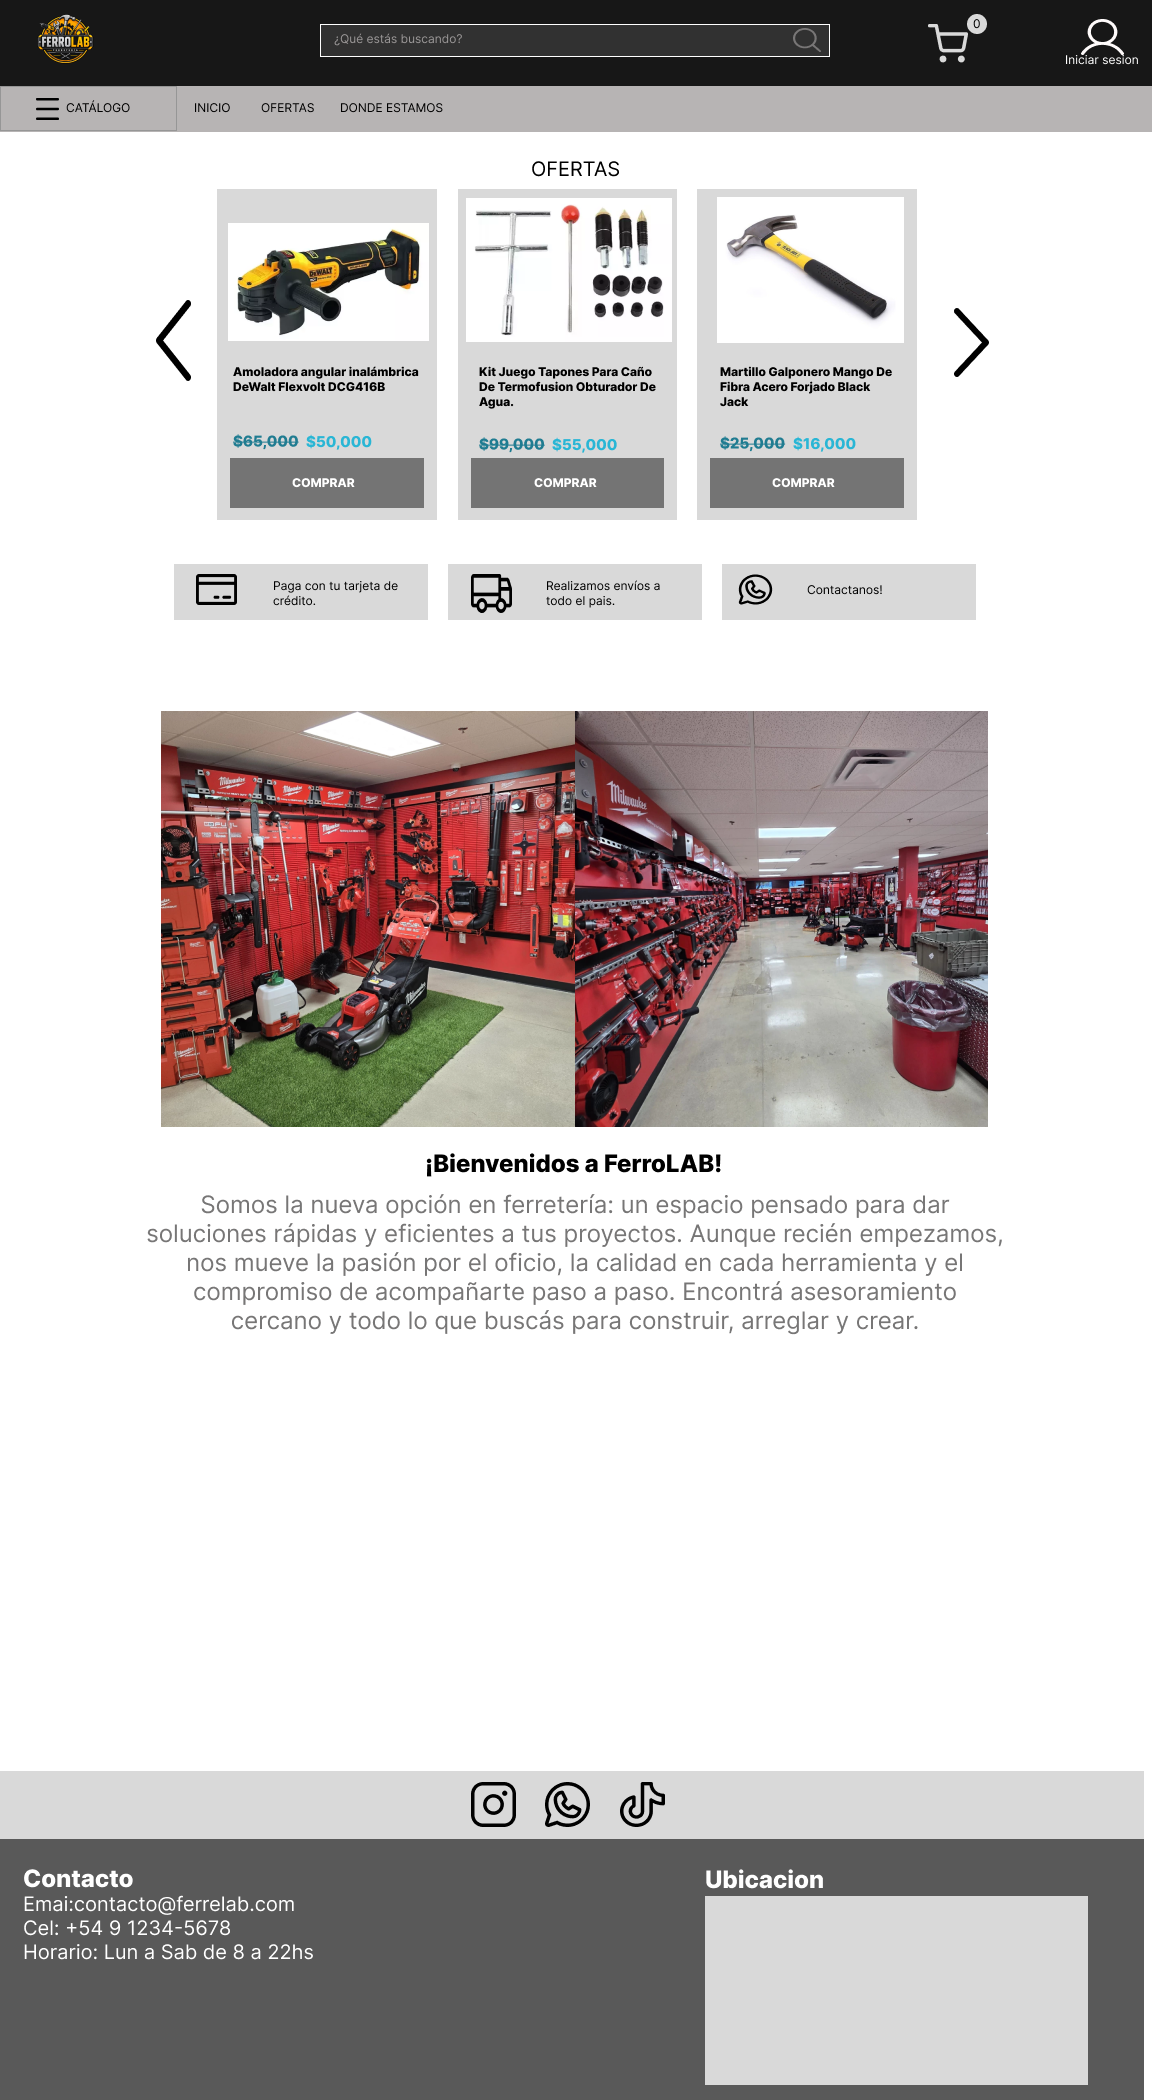
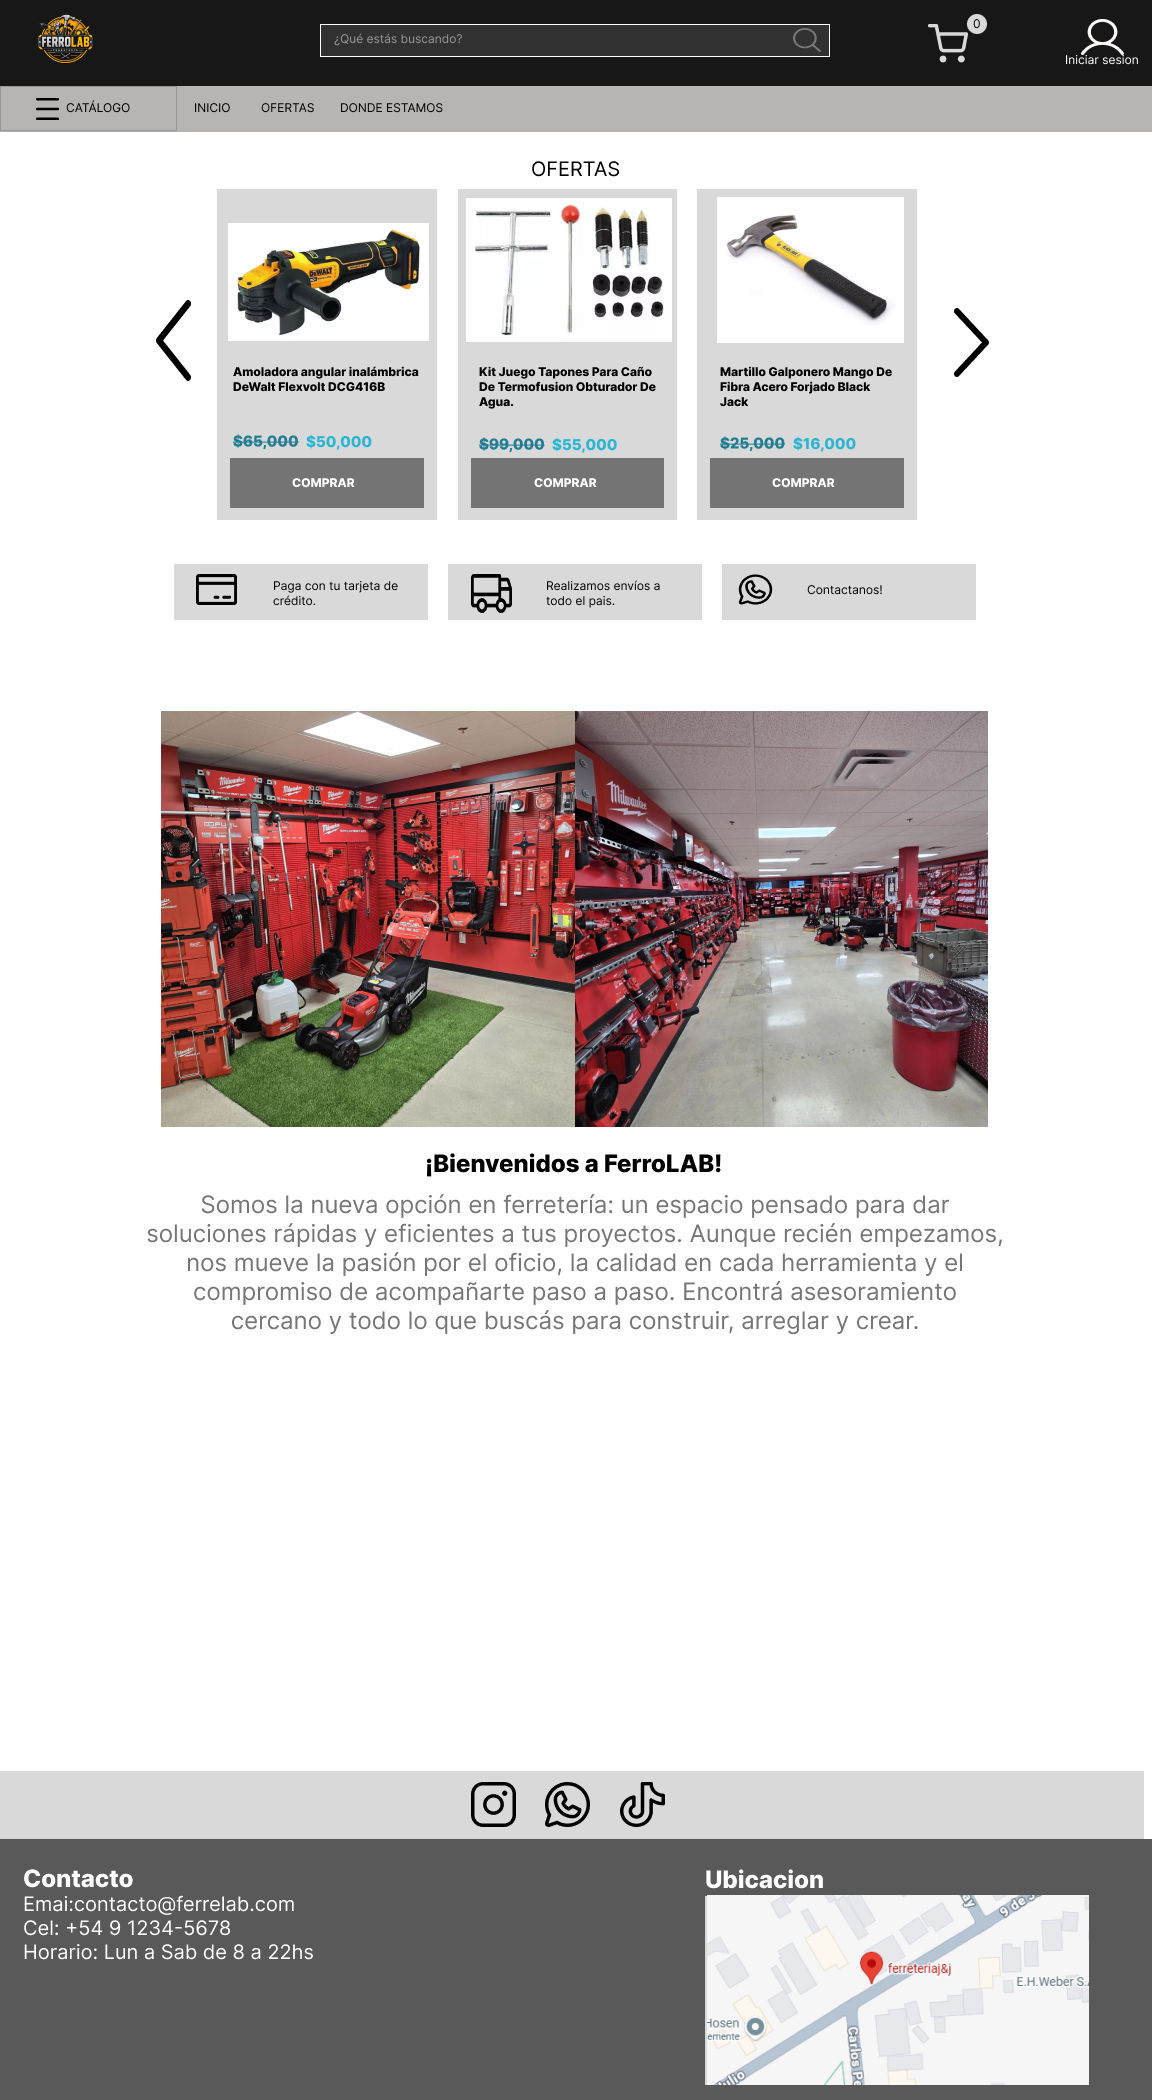
Corrige hallazgos del review: nombre de marca, prompts, mockup multi-archivo

Changed region(s): [[0.5938, 0.8667, 1.0, 1.0]]

diff --git a/docs/specs/spec-ux.md b/docs/specs/spec-ux.md
@@ -64,6 +64,7 @@ para la página.
 - Texto de bienvenida: "¡Bienvenidos a FerroLAB!" + párrafo de presentación de la marca.
 - Redes sociales: íconos de Instagram, WhatsApp y TikTok.
 - Footer: dos columnas — "Contacto" (email, teléfono, horario de atención) y "Ubicación" (mapa embebido).
+- Seccion de catalogo que aparece una lista con diferentes tipos,herramientas manuales,herramientas electricas,electricidad y jardineria
 
 ### Catálogo
 - Header y nav: mismos que en Inicio (buscador, carrito, login, menú CATÁLOGO, nav INICIO/OFERTAS/DONDE ESTAMOS) — mantiene consistencia de navegación en todo el sitio.

diff --git a/README.md b/README.md
@@ -1,4 +1,4 @@
-# 🌐 Ferretería Online — [Nombre de la ferretería]
+# 🌐 Ferretería Online — Ferrolab
 
 ## 🎓 Datos Académicos
 
